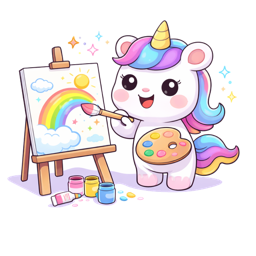
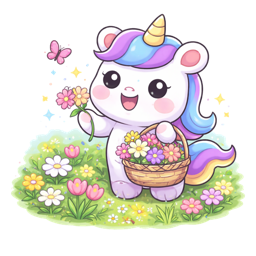
Add placeholder eighth clue

diff --git a/src/lib/themes.ts b/src/lib/themes.ts
@@ -9,7 +9,8 @@ export type ThemeBuddyVariant =
   | "step4"
   | "step5"
   | "step6"
-  | "step7";
+  | "step7"
+  | "step8";
 
 export type ThemeDefinition = {
   id: string;
@@ -48,28 +49,32 @@ const themes: Record<string, ThemeDefinition> = {
         src: "/media/unicorns/unicorn-1.png",
       },
       step2: {
-        alt: "A whimsical unicorn buddy carrying flowers.",
+        alt: "A whimsical unicorn buddy surfing a splashy wave.",
         src: "/media/unicorns/unicorn-2.png",
       },
       step3: {
-        alt: "A whimsical unicorn buddy painting a rainbow.",
+        alt: "A whimsical unicorn buddy carrying flowers.",
         src: "/media/unicorns/unicorn-3.png",
       },
       step4: {
-        alt: "A whimsical unicorn buddy driving a racecar.",
+        alt: "A whimsical unicorn buddy painting a rainbow.",
         src: "/media/unicorns/unicorn-4.png",
       },
       step5: {
-        alt: "A whimsical unicorn buddy eating a frosted donut.",
+        alt: "A whimsical unicorn buddy driving a racecar.",
         src: "/media/unicorns/unicorn-5.png",
       },
       step6: {
-        alt: "A whimsical unicorn buddy blowing bubbles.",
+        alt: "A whimsical unicorn buddy eating a frosted donut.",
         src: "/media/unicorns/unicorn-6.png",
       },
       step7: {
-        alt: "A whimsical unicorn buddy dressed as a birthday wizard.",
+        alt: "A whimsical unicorn buddy blowing bubbles.",
         src: "/media/unicorns/unicorn-7.png",
+      },
+      step8: {
+        alt: "A whimsical unicorn buddy dressed as a birthday wizard.",
+        src: "/media/unicorns/unicorn-8.png",
       },
     },
   },
@@ -82,7 +87,7 @@ export function getActiveTheme() {
 }
 
 export function getStepBuddyVariant(stepNumber: number): ThemeBuddyVariant {
-  const clampedStepNumber = Math.max(1, Math.min(7, stepNumber));
+  const clampedStepNumber = Math.max(1, Math.min(8, stepNumber));
 
   return `step${clampedStepNumber}` as ThemeBuddyVariant;
 }
